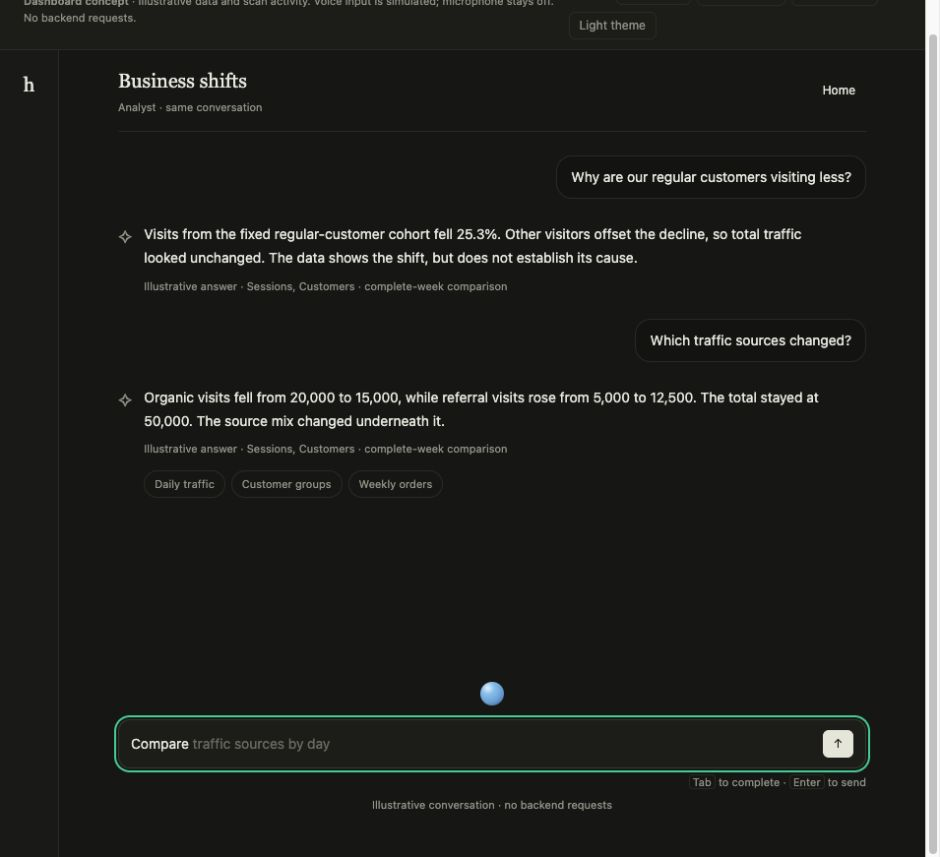
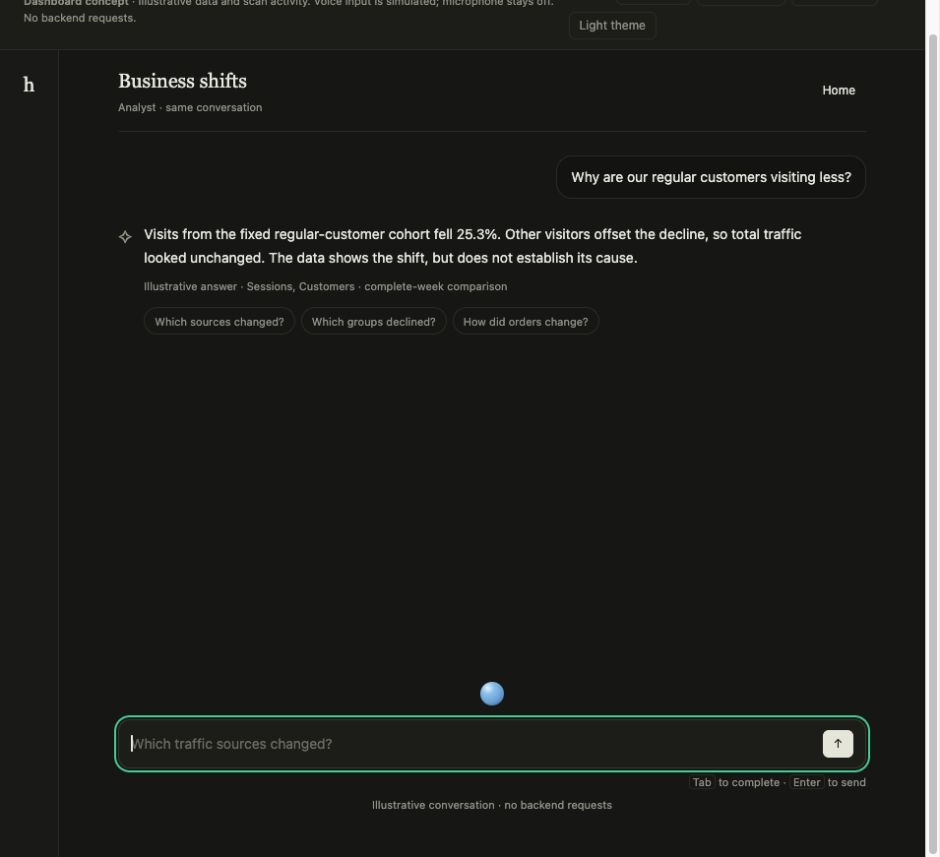
docs: phrase follow-ups as questions and offer primary completion

diff --git a/docs/design/chat-followups/index.html b/docs/design/chat-followups/index.html
@@ -259,30 +259,30 @@ let voiceTimers=[],voiceSession=0,voiceActive=false,voicePhase='off',voiceTurn=0
 const utterances=['Why are our regular customers visiting less?','Which traffic sources changed?'];
 // Ontology-shaped examples only; production must validate against the accepted ontology.
 const followupCatalog={
- customers:[{label:'Traffic source changes',question:'Which traffic sources changed?'},{label:'Customer groups',question:'Which customer groups lost visits?'},{label:'Weekly orders',question:'How did orders change this week?'}],
- traffic:[{label:'Daily traffic',question:'Compare traffic sources by day'},{label:'Customer groups',question:'Compare visits by customer group'},{label:'Weekly orders',question:'How did orders change this week?'}],
- orders:[{label:'Orders by customer',question:'Which customer groups placed fewer orders?'},{label:'Daily orders',question:'Compare order counts by day'},{label:'Traffic source changes',question:'Which traffic sources changed?'}]
+ customers:[{label:'Which sources changed?',question:'Which traffic sources changed?'},{label:'Which groups declined?',question:'Which customer groups lost visits?'},{label:'How did orders change?',question:'How did orders change this week?'}],
+ traffic:[{label:'How did traffic change?',question:'How did traffic sources change by day?'},{label:'Which groups changed?',question:'Which customer groups changed their visits?'},{label:'How did orders change?',question:'How did orders change this week?'}],
+ orders:[{label:'Which buyers ordered less?',question:'Which customer groups placed fewer orders?'},{label:'How did daily orders change?',question:'How did order counts change by day?'},{label:'Which sources changed?',question:'Which traffic sources changed?'}]
 };
-let nextQuestions=followupCatalog.customers,completion='',dismissedCompletion='';
+let nextQuestions=[],completion='',dismissedCompletion=null;
 function renderCompletion(){
  const input=$('chat-input'),draft=input.value;
- completion=!voiceActive&&!chatBusy&&document.activeElement===input&&draft.length>=2&&draft!==dismissedCompletion&&input.selectionStart===draft.length&&input.selectionEnd===draft.length?nextQuestions.find(q=>q.question.toLowerCase().startsWith(draft.toLowerCase())&&q.question.length>draft.length)?.question||'':'';
- $('completion-description').textContent=completion?'Suggestion: '+completion:'';const ghost=$('chat-completion');ghost.replaceChildren();ghost.hidden=!completion;$('completion-help').hidden=!completion;
+ completion=!voiceActive&&!chatBusy&&document.activeElement===input&&(draft.length===0||draft.length>=2)&&draft!==dismissedCompletion&&input.selectionStart===draft.length&&input.selectionEnd===draft.length?nextQuestions.find(q=>q.question.toLowerCase().startsWith(draft.toLowerCase())&&q.question.length>draft.length)?.question||'':'';
+ $('completion-description').textContent=completion?'Suggestion: '+completion:'';const ghost=$('chat-completion');input.placeholder=completion?'':'Ask a follow-up…';ghost.replaceChildren();ghost.hidden=!completion;$('completion-help').hidden=!completion;
  if(completion){const typed=document.createElement('span');typed.className='typed';typed.textContent=draft;ghost.append(typed,document.createTextNode(completion.slice(draft.length)));ghost.scrollLeft=input.scrollLeft;}
 }
 function acceptFollowup(question){
- if(chatBusy)return;stopVoice();$('chat-input').value=question;dismissedCompletion='';$('chat-input').focus();$('chat-input').setSelectionRange(question.length,question.length);renderCompletion();$('announce').textContent='Question filled. Press Enter to send.';
+ if(chatBusy)return;stopVoice();$('chat-input').value=question;dismissedCompletion=null;$('chat-input').focus();$('chat-input').setSelectionRange(question.length,question.length);renderCompletion();$('announce').textContent='Question filled. Press Enter to send.';
 }
 function showFollowups(reply,prompt){
- document.querySelectorAll('.chat-followups').forEach(el=>el.remove());
+ document.querySelectorAll('.chat-followups').forEach(el=>el.remove());dismissedCompletion=null;
  nextQuestions=/orders?/i.test(prompt)?followupCatalog.orders:/source|traffic|referral/i.test(prompt)?followupCatalog.traffic:followupCatalog.customers;
  const group=document.createElement('div');group.className='chat-followups';group.setAttribute('role','group');group.setAttribute('aria-label','Suggested follow-up questions');
  for(const item of nextQuestions){const b=document.createElement('button');b.type='button';b.className='chat-followup';b.textContent=item.label;b.title=item.question;b.setAttribute('aria-label',item.question);b.onclick=()=>acceptFollowup(item.question);group.append(b)}
  reply.lastElementChild.append(group);renderCompletion();
 }
-$('chat-input').addEventListener('input',()=>{dismissedCompletion='';renderCompletion()});
+$('chat-input').addEventListener('input',()=>{dismissedCompletion=null;renderCompletion()});
 for(const event of ['focus','click','keyup','select','scroll'])$('chat-input').addEventListener(event,renderCompletion);
-$('chat-input').addEventListener('blur',()=>{completion='';$('completion-description').textContent='';$('chat-completion').hidden=true;$('completion-help').hidden=true});
+$('chat-input').addEventListener('blur',()=>{$('chat-input').placeholder='Ask a follow-up…';completion='';$('completion-description').textContent='';$('chat-completion').hidden=true;$('completion-help').hidden=true});
 $('chat-input').addEventListener('keydown',e=>{
  if(e.isComposing)return;
  if(e.key==='Tab'&&!e.shiftKey&&!e.ctrlKey&&!e.altKey&&!e.metaKey&&completion){e.preventDefault();acceptFollowup(completion)}

diff --git a/docs/design/chat-followups/requirements.md b/docs/design/chat-followups/requirements.md
@@ -8,9 +8,10 @@ Show likely next questions based on the accepted ontology and the current conver
 
 ## The view and interaction
 
-- After the latest completed answer, show at most three small neutral pills. Use short labels, typically 2–4 words, with the complete question available as the accessible label/tooltip. No large recommendation panel, hero space, tabs or introductory paragraph.
+- After the latest completed answer, show at most three small neutral pills. Use short question labels, typically 3–5 words, ending in a question mark, with the complete question available as the accessible label/tooltip. No large recommendation panel, hero space, tabs or introductory paragraph.
 - Suggestions relate to the current answer and available ontology relationships: after a customer-cohort decline, offer traffic-source changes, a customer-group breakdown, or order trends. The prototype examples are illustrative; production must verify each question against the workspace.
 - Clicking a pill fills the existing composer and focuses it. It does **not** start a query. The user can edit the question, then press Enter or Send.
+- Immediately after an answer, show the full primary (top-ranked) suggested question as muted ghost text in the empty focused composer. The draft remains empty until Tab accepts it; Enter alone never submits an unaccepted suggestion. Escape dismisses this empty-draft suggestion and restores the normal placeholder.
 - When typed text matches the beginning of a suggested question, show a muted inline completion suffix inside the composer. Keep the user's actual text visually distinct and unchanged until acceptance. Offer one completion at a time, drawn from the same ranked candidates.
 - **Tab** accepts the displayed completion and keeps focus in the composer. **Enter** then submits exactly once through the existing chat path. Enter without accepting sends the user's actual text, not the invisible proposed suffix. Normal Send remains available.
 - **Escape** dismisses that completion for the current draft; Shift+Tab and Tab without a visible completion retain normal focus navigation. Preserve Shift+Enter, input-method composition, selection, caret movement, multiline editing and existing draft persistence.
@@ -45,7 +46,7 @@ Inspect current versions and available metadata APIs before choosing exact inter
 - [ ] Up to three distinct relevant pills only under the latest completed answer; appropriate fewer/empty, pending and failure states.
 - [ ] Validated candidates adapt to at least two different ontology fixtures; unsupported relationships/measures, inadequate history and stale publication generations do not yield misleading questions.
 - [ ] Pill click fills and focuses without starting a query; edits remain intact. Enter/Send executes one normal follow-up in the same thread.
-- [ ] Visible inline suffix matches the typed prefix; Tab accepts it; Enter sends once. Escape dismisses; unmatched drafts and Tab/Shift+Tab continue normal navigation.
+- [ ] The empty composer offers the complete primary question; one Tab accepts without submitting, then Enter sends once. Enter on an empty draft does not run it. Escape dismisses even the empty-draft suggestion. Visible inline suffix also matches typed prefixes; Tab accepts it; Enter sends once. Escape dismisses; unmatched drafts and Tab/Shift+Tab continue normal navigation.
 - [ ] IME, Shift+Enter, mid-text caret/selection, long/multiline drafts, keyboard and screen-reader descriptions remain usable. Never trap focus when no completion is shown.
 - [ ] Voice transcript deltas are never contaminated by predictions; selection/editing cannot trigger an accidental Live business request. GPT-Live prerequisite remains unchanged.
 - [ ] Rapid thread/workspace/context changes ignore stale results; no per-keystroke model/query calls, broad scans or duplicate Analyst runs.

diff --git a/docs/design/chat-followups/README.md b/docs/design/chat-followups/README.md
@@ -6,9 +6,9 @@ Open `index.html#followups` in a browser to show a completed example answer. The
 
 ## Interaction
 
-- Up to three subtle pills below the latest completed answer. Clicking fills and focuses the composer, without submitting.
-- Type `Which` after the customer answer to see an inline completion. Tab accepts; Enter sends the completed question once.
-- After the traffic answer, the list changes to daily traffic, customer groups and weekly orders. Type `Compare` for the new contextual completion.
+- Up to three subtle pills phrased as short questions below the latest completed answer. Clicking fills and focuses the composer, without submitting.
+- After the customer answer, the empty focused composer shows the full top-ranked question in muted text. Press Tab once to accept it, then Enter to send. Typing `Which` also filters the same questions and shows the matching suffix.
+- After the traffic answer, the list changes to daily traffic, customer groups and weekly orders. The empty composer offers the new primary question; typing `How` filters matching questions.
 - Escape dismisses the current completion. Shift+Tab and Tab without a suggestion continue ordinary focus navigation. Suggestions only complete at the end of a draft with no selection; composition events are ignored by keyboard acceptance.
 - Suggestions are hidden while the next answer is pending; prior pill rows are removed. Only the latest answer receives the new set.
 - Explicit pill selection/typing stops scripted voice. A non-empty typed draft blocks voice activation until sent or cleared, preserving user text. Predictions do not enter microphone transcripts.
@@ -22,7 +22,7 @@ This PR is limited to the design reference and handoff. It does not modify produ
 
 ## Verification performed
 
-Browser checks covered three pills, pill selection with no submission, inline completion, Tab acceptance and Enter submission exactly once, Escape dismissal, Shift+Tab, ordinary Tab with an unmatched draft, mid-text caret behavior, pending suppression and contextual refresh. Checked a 390px phone layout without horizontal overflow, both light/dark themes, font alignment and accessible question descriptions. No browser errors during these interactions. Additional check: starting voice cannot automatically send a prepared suggested draft, and selecting a pill ends voice before changing the draft.
+Browser checks also verified the full primary question appears in an empty draft, one Tab fills it without submission, Enter sends once, Enter on an empty draft does not send, Escape dismisses the empty-draft suggestion, and the primary updates after the next answer. Browser checks covered three pills, pill selection with no submission, inline completion, Tab acceptance and Enter submission exactly once, Escape dismissal, Shift+Tab, ordinary Tab with an unmatched draft, mid-text caret behavior, pending suppression and contextual refresh. Checked a 390px phone layout without horizontal overflow, both light/dark themes, font alignment and accessible question descriptions. No browser errors during these interactions. Additional check: starting voice cannot automatically send a prepared suggested draft, and selecting a pill ends voice before changing the draft.
 
 JavaScript syntax checked with Node's `vm.Script`. These checks verify prototype interactions; they do not establish real ontology ranking, real voice latency, backend security, actual IME platform behavior or server integration. Those require the production acceptance checks in the linked issue.
 
